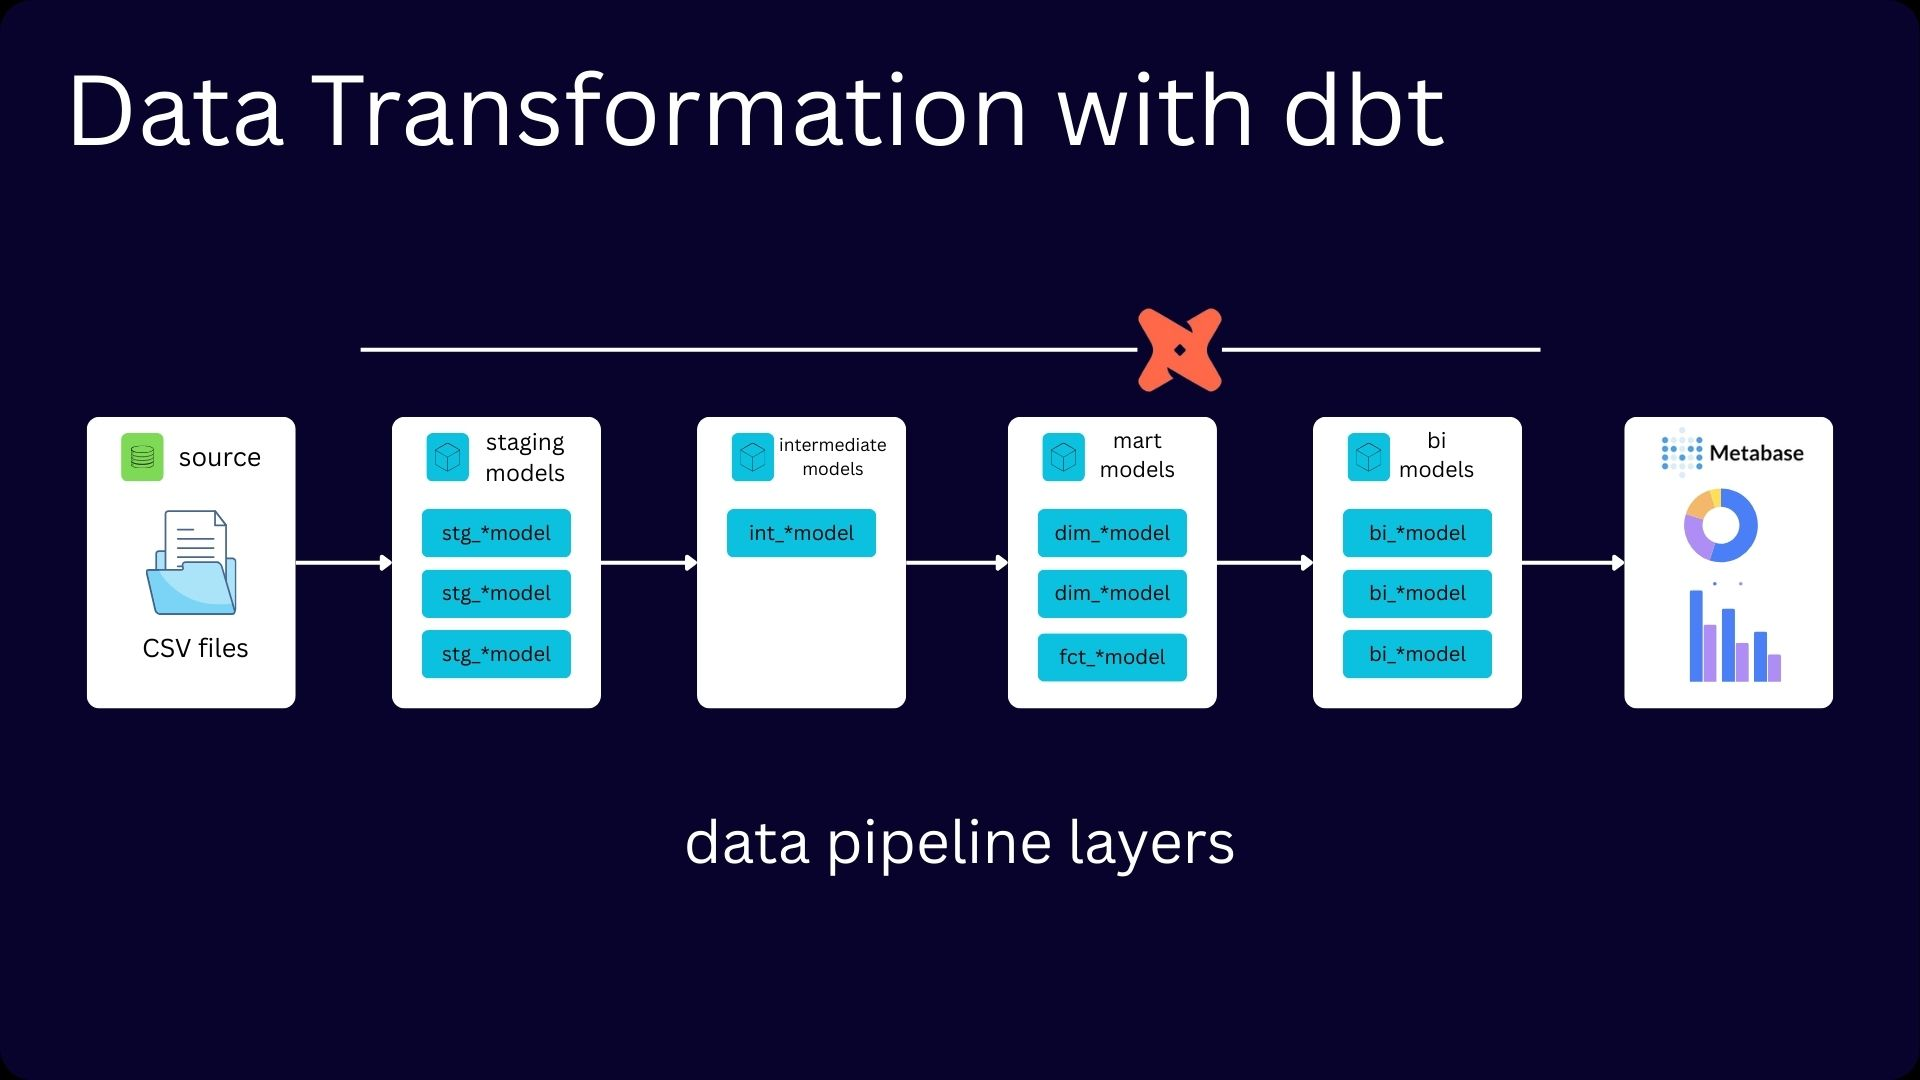
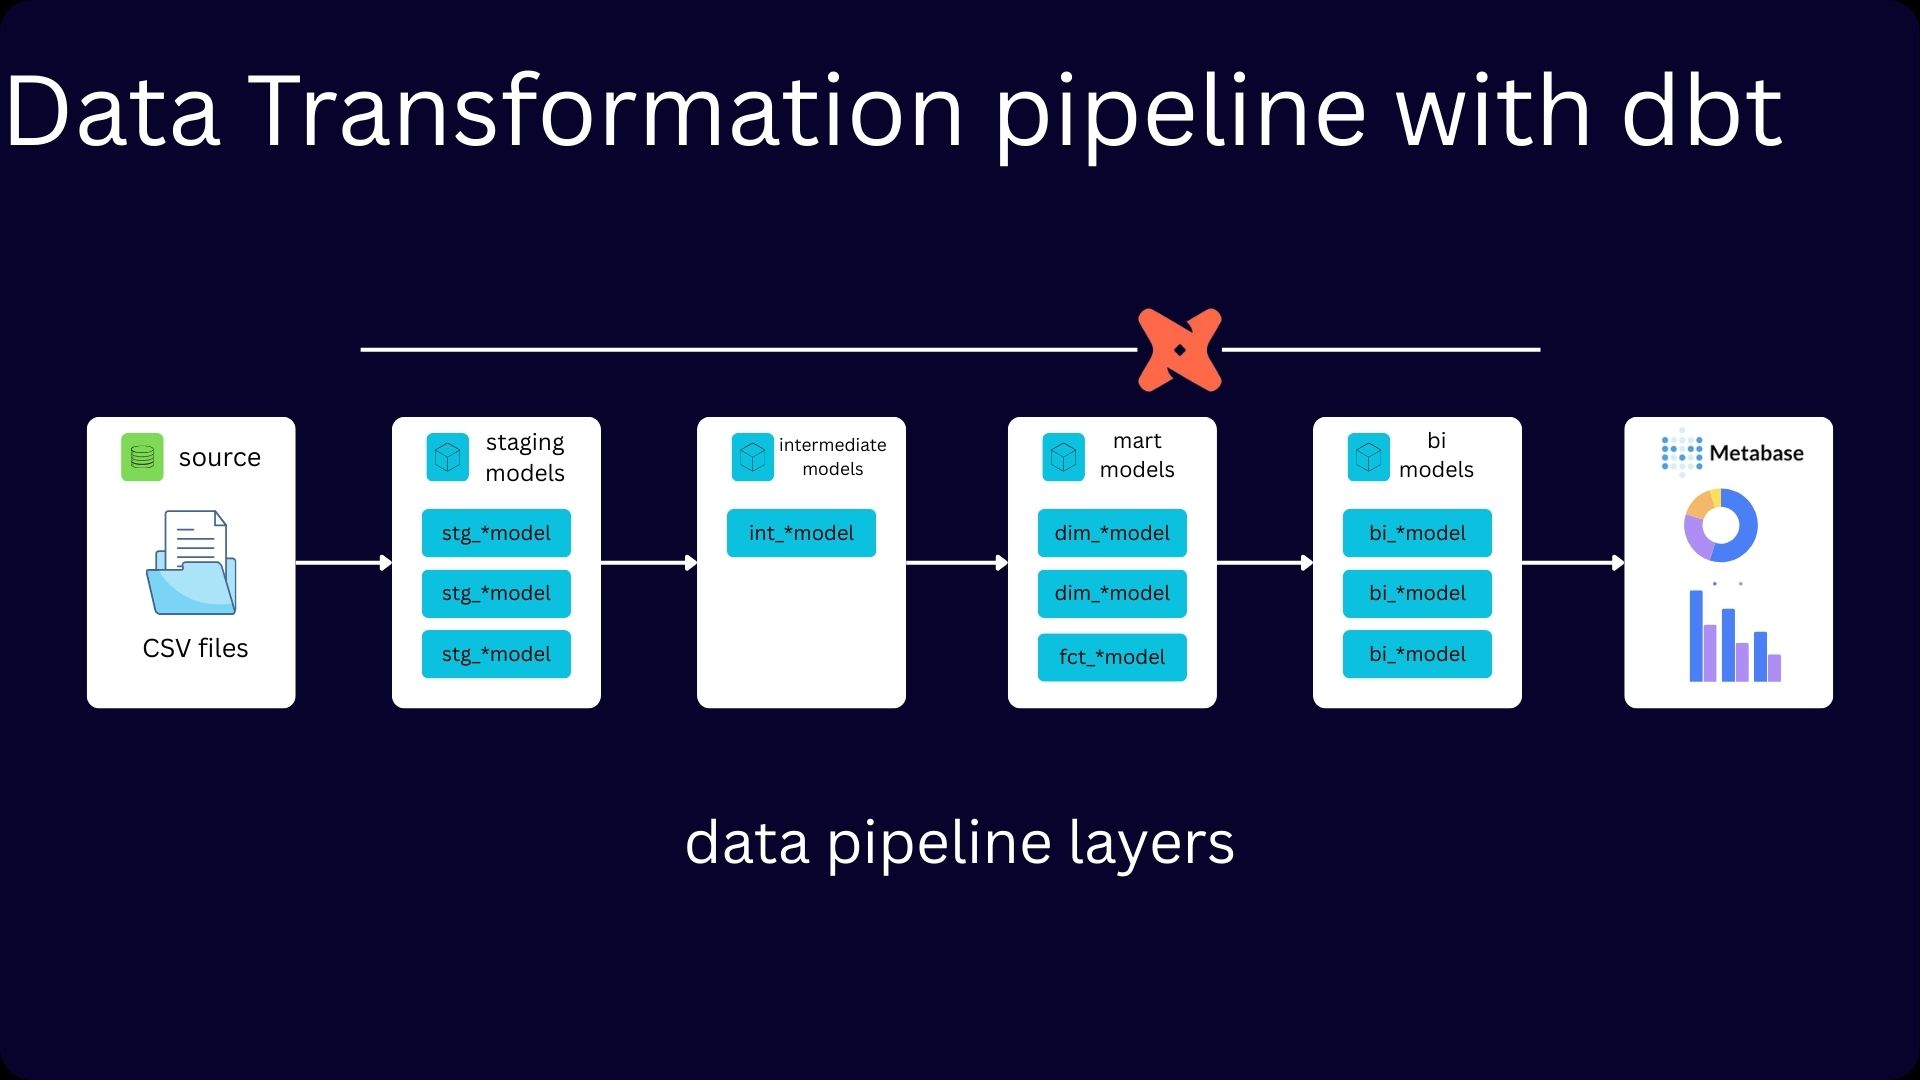
Clarify README title and update diagram
Adjust README heading to 'Data Tranformation pipeline with DBT' for clearer project scope, and replace the binary asset assets/data pipeline.jpg with an updated diagram/image. No functional code changes.

Changed region(s): [[0.0, 0.0611, 0.9375, 0.1528]]

diff --git a/README.md b/README.md
@@ -1,4 +1,4 @@
-# Data Tranformation with DBT
+# Data Tranformation pipeline with DBT
 
 ## 💻Project Overview
 
